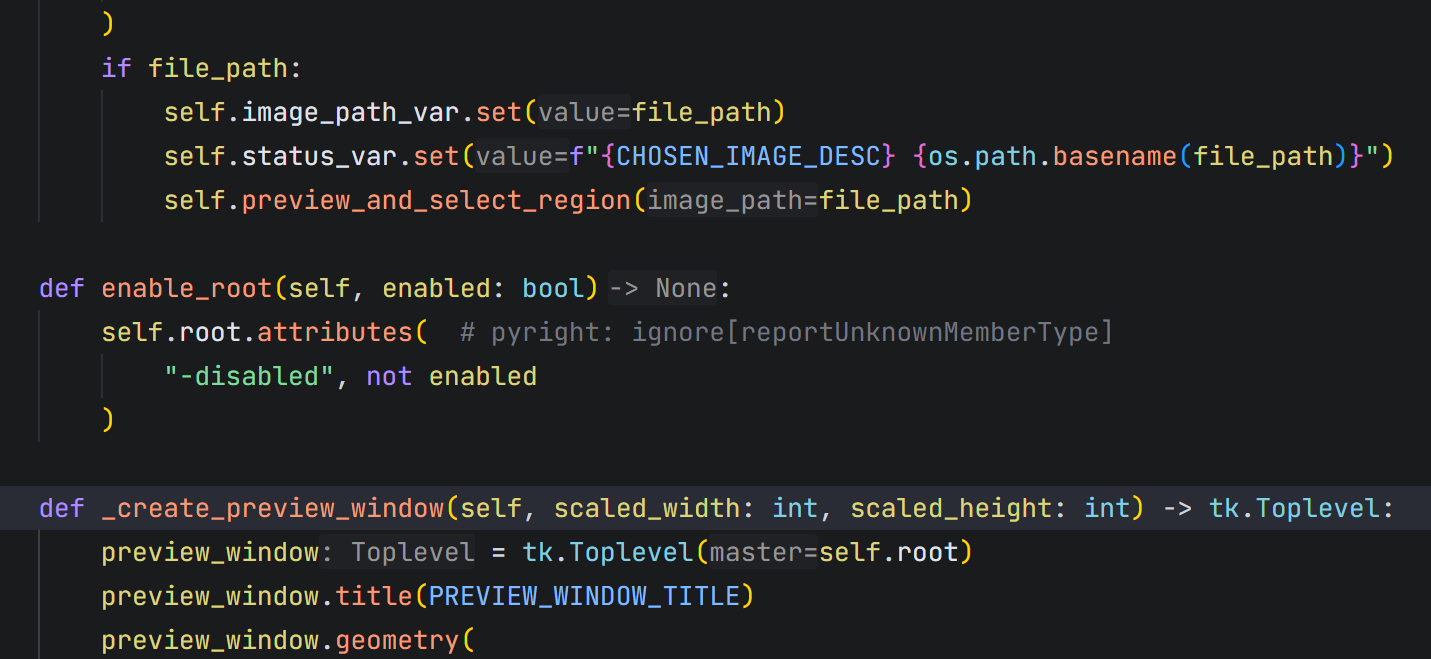
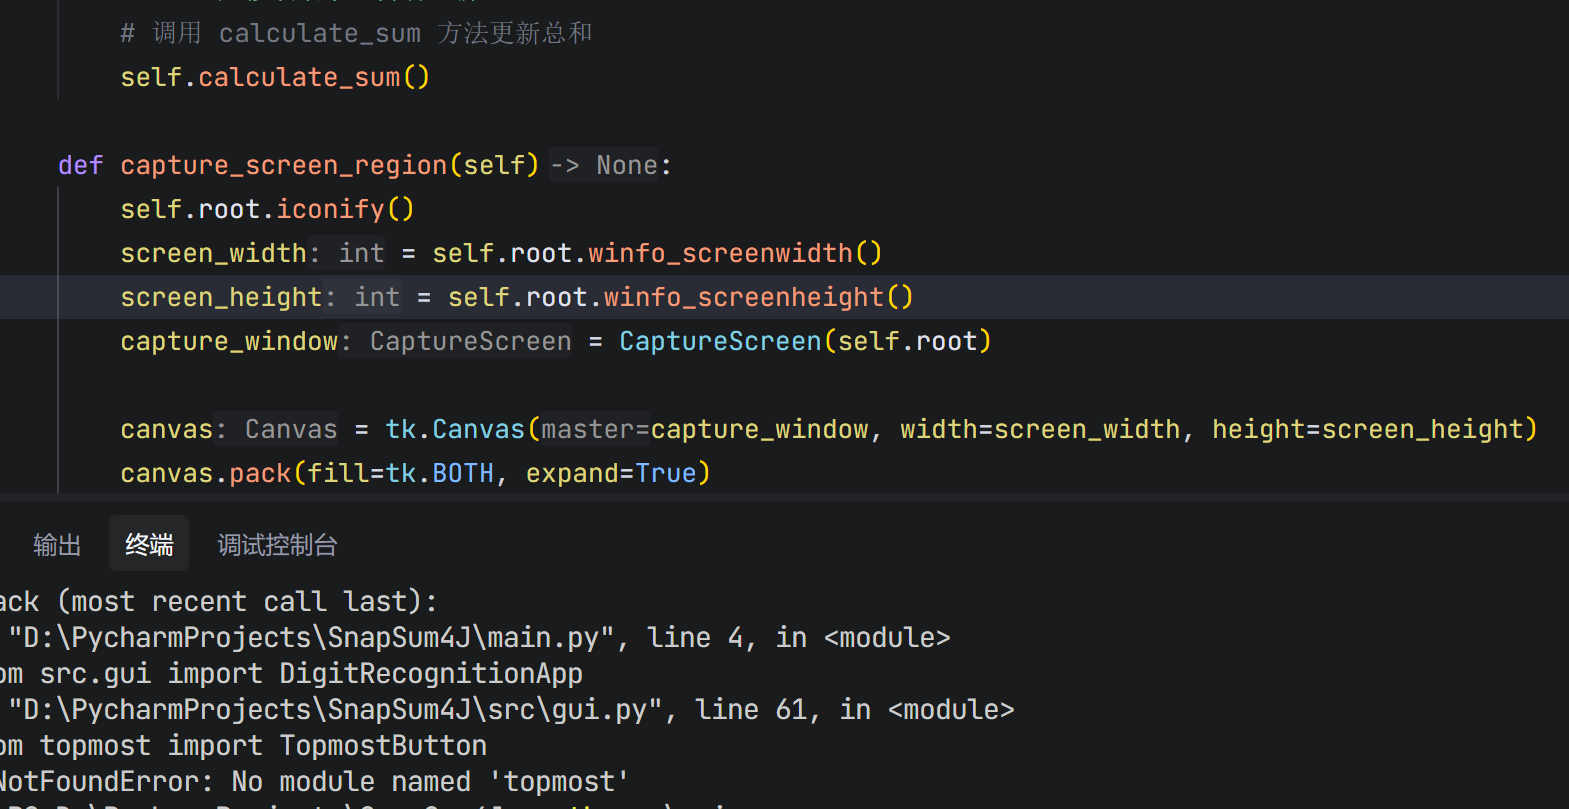
upadte

diff --git a/src/gui.py b/src/gui.py
@@ -6,9 +6,9 @@ from multiprocessing.pool import Pool
 from tkinter import filedialog, messagebox
 from tkinter.scrolledtext import ScrolledText
 
-import pyautogui
 from PIL import Image
 
+from src.capture_window import CaptureScreen
 from src.gui_constant import (
     APP_TITLE,
     CAPTURE_BUTTON_PADX,
@@ -44,8 +44,8 @@ from src.gui_constant import (
     WINDOW_WIDTH,
 )
 from src.preview_window import PreviewWindow
-from src.utils import calculate_scaled_size
 from src.topmost import TopmostButton
+from src.utils import calculate_scaled_size
 
 # 全局变量，用于存储OCR实例（在子进程中初始化）
 global_ocr = None
@@ -338,119 +338,12 @@ class DigitRecognitionApp:
         self.calculate_sum()
 
     def capture_screen_region(self):
-        """截取屏幕区域"""
-        # 最小化主窗口
         self.root.iconify()
-
-        # 获取屏幕尺寸
         screen_width = self.root.winfo_screenwidth()
         screen_height = self.root.winfo_screenheight()
+        capture_window = CaptureScreen(
+            self.root, self.image_path_var, self.status_var, self.recognize_digits
+        )
 
-        # 创建全屏覆盖窗口
-        capture_window = tk.Toplevel(self.root)
-        capture_window.attributes("-fullscreen", True)
-        capture_window.attributes("-alpha", 0.3)  # 设置透明度
-        capture_window.attributes("-topmost", True)
-        capture_window.config(cursor="cross")
-
-        # 创建画布
-        canvas = tk.Canvas(capture_window, width=screen_width, height=screen_height)
-        canvas.pack(fill=tk.BOTH, expand=True)
-
-        # 选择区域的变量
-        start_x = None
-        start_y = None
-        rect = None
-
-        # 鼠标按下事件
-        def on_mouse_down(event):
-            nonlocal start_x, start_y, rect
-            start_x = event.x_root
-            start_y = event.y_root
-            # 创建矩形
-            if rect:
-                canvas.delete(rect)
-            rect = canvas.create_rectangle(
-                start_x, start_y, start_x, start_y, outline="red", width=2
-            )
-
-        # 鼠标移动事件
-        def on_mouse_move(event):
-            nonlocal rect
-            if start_x is not None and start_y is not None:
-                current_x = event.x_root
-                current_y = event.y_root
-                # 更新矩形
-                canvas.coords(rect, start_x, start_y, current_x, current_y)
-
-        # 鼠标释放事件
-        def on_mouse_up(event):
-            nonlocal start_x, start_y
-            if start_x is not None and start_y is not None:
-                end_x = event.x_root
-                end_y = event.y_root
-
-                # 确保坐标顺序正确
-                x1 = min(start_x, end_x)
-                y1 = min(start_y, end_y)
-                x2 = max(start_x, end_x)
-                y2 = max(start_y, end_y)
-
-                # 检查选择区域是否有效
-                if x2 - x1 > 10 and y2 - y1 > 10:
-                    # 关闭捕获窗口
-                    capture_window.destroy()
-                    # 截取屏幕区域
-                    self.capture_selected_region(x1, y1, x2, y2)
-                else:
-                    # 关闭捕获窗口
-                    capture_window.destroy()
-                    # 恢复主窗口
-                    self.root.deiconify()
-                    messagebox.showinfo("提示", "请选择一个更大的区域")
-
-                # 重置变量
-                start_x = None
-                start_y = None
-
-        # 绑定鼠标事件
-        canvas.bind("<Button-1>", on_mouse_down)
-        canvas.bind("<B1-Motion>", on_mouse_move)
-        canvas.bind("<ButtonRelease-1>", on_mouse_up)
-
-        # 点击鼠标右键取消
-        def on_right_click(event):
-            # 延迟3秒后取消截图
-            def cancel_after_delay():
-                capture_window.destroy()
-                # 恢复主窗口
-                self.root.deiconify()
-
-            capture_window.after(100, cancel_after_delay)
-
-        canvas.bind("<Button-3>", on_right_click)
-
-    def capture_selected_region(self, x1, y1, x2, y2):
-        """根据坐标截取屏幕区域"""
-        try:
-            # 截取屏幕区域
-            screenshot = pyautogui.screenshot(region=(x1, y1, x2 - x1, y2 - y1))
-
-            # 保存为临时文件
-            temp_file = os.path.join(os.path.abspath("."), "captured_screen_region.png")
-            screenshot.save(temp_file)
-
-            # 恢复主窗口
-            self.root.deiconify()
-
-            # 更新图片路径
-            self.image_path_var.set(temp_file)
-            self.status_var.set(
-                f"已截取屏幕区域，保存为: {os.path.basename(temp_file)}"
-            )
-
-            # 开始识别
-            self.recognize_digits()
-        except Exception as e:
-            messagebox.showerror("错误", f"截取屏幕失败: {str(e)}")
-            self.status_var.set(f"截取屏幕失败: {str(e)}")
+        canvas = capture_window.create_canvas(screen_width, screen_height)
+        capture_window.handle_select_region_events(canvas)

diff --git a/src/capture_window.py b/src/capture_window.py
@@ -1,0 +1,115 @@
+import os
+import tkinter as tk
+from tkinter import messagebox
+from typing import Callable
+
+import pyautogui
+
+from src.constant import CAPTURE_SCREEN_RECT_MIN_LENGTH, TEMP_FILE_NAME
+from src.gui_constant import (
+    SCREEN_CAPTURE_CANCEL_DELAY,
+    SCREEN_CAPTURE_WARNING_MESSAGE,
+    SCREEN_CAPTURE_WARNING_TITLE,
+)
+
+
+class CaptureScreen(tk.Toplevel):
+    def __init__(
+        self,
+        root: tk.Tk,
+        image_path_var: tk.StringVar,
+        status_var: tk.StringVar,
+        recognize_digits: Callable[[], None],
+    ):
+        super().__init__(root)
+        self.root = root
+        self.attributes("-fullscreen", True)  # pyright: ignore[reportUnknownMemberType]
+        self.attributes("-alpha", 0.3)  # pyright: ignore[reportUnknownMemberType]
+        self.attributes("-topmost", True)  # pyright: ignore[reportUnknownMemberType]
+        self.config(cursor="cross")
+        self.image_path_var = image_path_var
+        self.status_var = status_var
+        self.recognize_digits = recognize_digits
+
+    def create_canvas(self, screen_width: int, screen_height: int):
+        canvas = tk.Canvas(self, width=screen_width, height=screen_height)
+        canvas.pack(fill=tk.BOTH, expand=True)
+        return canvas
+
+    def handle_select_region_events(self, canvas: tk.Canvas):
+        start_x = None
+        start_y = None
+        rect = None
+
+        def on_mouse_down(event: tk.Event):
+            nonlocal start_x, start_y, rect
+            start_x = event.x_root
+            start_y = event.y_root
+            if rect:
+                canvas.delete(rect)
+            rect = canvas.create_rectangle(
+                start_x, start_y, start_x, start_y, outline="red", width=2
+            )
+
+        def on_mouse_move(event: tk.Event):
+            nonlocal rect
+            if start_x is not None and start_y is not None:
+                current_x = event.x_root
+                current_y = event.y_root
+                assert (
+                    rect is not None
+                ), "rect must be initialized before calling on_mouse_move"
+                canvas.coords(rect, start_x, start_y, current_x, current_y)
+
+        def on_mouse_up(event: tk.Event):
+            nonlocal start_x, start_y
+            if start_x is not None and start_y is not None:
+                end_x = event.x_root
+                end_y = event.y_root
+                x1 = min(start_x, end_x)
+                y1 = min(start_y, end_y)
+                x2 = max(start_x, end_x)
+                y2 = max(start_y, end_y)
+                if (
+                    x2 - x1 > CAPTURE_SCREEN_RECT_MIN_LENGTH
+                    and y2 - y1 > CAPTURE_SCREEN_RECT_MIN_LENGTH
+                ):
+                    self.destroy()
+                    self.capture_selected_region(x1, y1, x2, y2)
+                else:
+                    self.destroy()
+                    self.root.deiconify()
+                    messagebox.showinfo(
+                        SCREEN_CAPTURE_WARNING_TITLE,
+                        SCREEN_CAPTURE_WARNING_MESSAGE,
+                    )
+                start_x = None
+                start_y = None
+
+        canvas.bind("<Button-1>", on_mouse_down)
+        canvas.bind("<B1-Motion>", on_mouse_move)
+        canvas.bind("<ButtonRelease-1>", on_mouse_up)
+
+        def on_right_click(event: tk.Event):
+            def cancel_after_delay():
+                self.destroy()
+                self.root.deiconify()
+
+            self.after(SCREEN_CAPTURE_CANCEL_DELAY, cancel_after_delay)
+
+        canvas.bind("<Button-3>", on_right_click)
+
+    def capture_selected_region(self, x1: int, y1: int, x2: int, y2: int):
+        try:
+            screenshot = pyautogui.screenshot(region=(x1, y1, x2 - x1, y2 - y1))
+            temp_file = os.path.join(os.path.abspath("."), TEMP_FILE_NAME)
+            screenshot.save(temp_file)
+            self.root.deiconify()
+            self.image_path_var.set(temp_file)
+            self.status_var.set(
+                f"已截取屏幕区域，保存为: {os.path.basename(temp_file)}"
+            )
+            self.recognize_digits()
+        except Exception as e:
+            messagebox.showerror("错误", f"截取屏幕失败: {str(e)}")
+            self.status_var.set(f"截取屏幕失败: {str(e)}")

diff --git a/src/gui_constant.py b/src/gui_constant.py
@@ -48,7 +48,6 @@ PREVIEW_WINDOW_RELAX_HEIGHT: int = 100
 
 PREVIEW_OUTLINE_COLOR: str = "red"
 PREVIEW_OUTLINE_WIDTH: int = 2
-PREVIEW_RECT_MIN_LENGTH: int = 10
 PREVIEW_WARNING_TITLE: str = "提示"
 PREVIEW_WARNING_MESSAGE: str = "请选择一个更大的区域"
 PREVIEW_CONFIRM_WARNING_TITLE: str = "提示"
@@ -65,3 +64,7 @@ PREVIEW_ERROR_MESSAGE: str = "无法加载图片: "
 
 TOPMOST_ENABLE_MESSAGE: str = "窗口已置顶"
 TOPMOST_DISABLE_MESSAGE: str = "窗口已取消置顶"
+
+SCREEN_CAPTURE_WARNING_TITLE: str = "提示"
+SCREEN_CAPTURE_WARNING_MESSAGE: str = "请选择一个更大的区域"
+SCREEN_CAPTURE_CANCEL_DELAY: int = 100

diff --git a/src/preview_window.py b/src/preview_window.py
@@ -5,7 +5,7 @@ from typing import Callable
 
 from PIL import Image, ImageTk
 
-from src.constant import SCALE_FACTOR, TEMP_FILE_NAME
+from src.constant import PREVIEW_RECT_MIN_LENGTH, SCALE_FACTOR, TEMP_FILE_NAME
 from src.gui_constant import (
     PREVIEW_BUTTON_FRAME_PADY,
     PREVIEW_CONFIRM_BUTTON_FONT,
@@ -20,7 +20,6 @@ from src.gui_constant import (
     PREVIEW_HINT_TEXT,
     PREVIEW_OUTLINE_COLOR,
     PREVIEW_OUTLINE_WIDTH,
-    PREVIEW_RECT_MIN_LENGTH,
     PREVIEW_WARNING_MESSAGE,
     PREVIEW_WARNING_TITLE,
     PREVIEW_WINDOW_RELAX_HEIGHT,

diff --git a/src/constant.py b/src/constant.py
@@ -1,2 +1,6 @@
 SCALE_FACTOR: int = 3
 TEMP_FILE_NAME: str = "temp.png"
+
+PREVIEW_RECT_MIN_LENGTH: int = 10
+
+CAPTURE_SCREEN_RECT_MIN_LENGTH: int = 10
